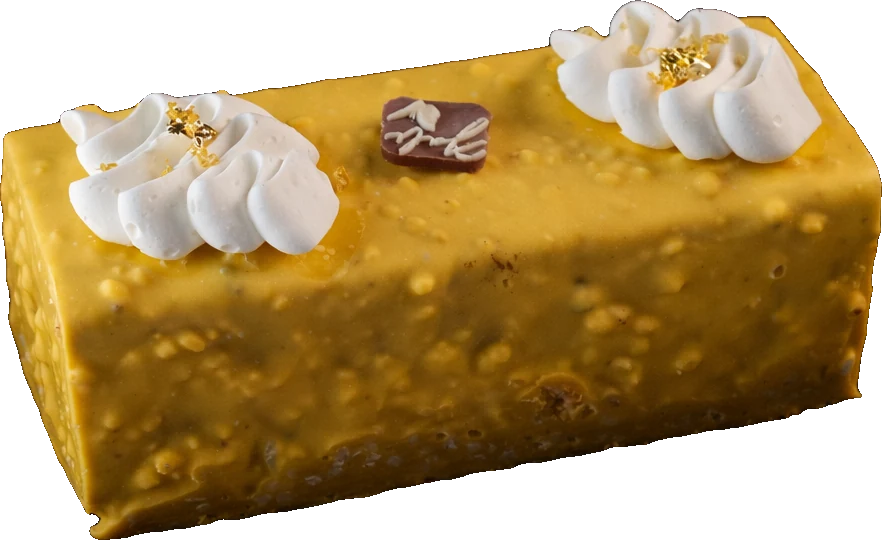
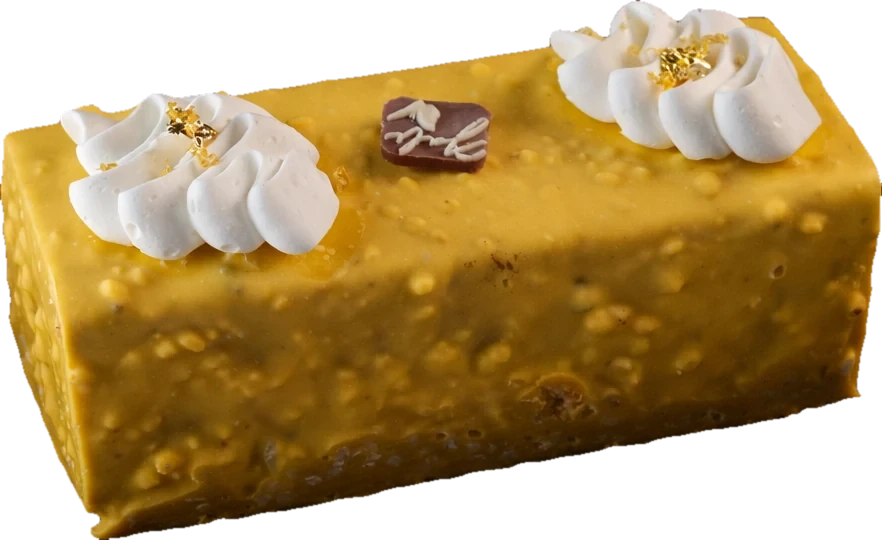
Replace low-res cake cutouts with owner's studio photos, clean cutout edges
Claude-Session: https://claude.ai/code/session_01XXde4XwDAUACeGNtHvghGj

diff --git a/maisons/patisserie.html b/maisons/patisserie.html
@@ -9,8 +9,8 @@
 <main><section class="hero-p"><div class="wrap grid"><div class="reveal"><div class="label">La Pâtisserie · Hay Riad, Rabat</div>
 <h1>La vitrine, <em>façonnée à la main.</em></h1><p class="lead">Entremets, tartes, viennoiseries et pâtisserie marocaine. À l’unité, en plateau ou en coffret, pour vous ou pour offrir.</p>
 <div class="btns"><a class="btn" href="https://wa.me/212661392231?text=Bonjour%20Gaston%20Gali%2C%20je%20souhaite%20commander%20des%20p%C3%A2tisseries." target="_blank" rel="noopener">Commander sur WhatsApp</a><a class="btn ghost" href="#collection">La collection</a></div></div>
-<div class="pstage" id="pstage" data-imgs="pistache,chocolat,velvet,croissant-pistache,vanille" aria-hidden="true"><div class="fl"></div></div></div></section>
-<section class="coll dark" id="collection"><div class="wrap"><div class="label on-dark">La collection</div><h2 class="h2 ond">Chaque création a son <em>instant.</em></h2><p class="lead">Une sélection de la vitrine. Commandez à l’unité, en plateau ou pour votre réception.</p><div class="gridc"><article class="cw reveal"><div class="tile"><span class="k">Pâtisserie fine</span><img src="../img/cut/couronne.webp" alt="Couronne caramel" loading="lazy"></div><h4>Couronne caramel</h4><div class="sub">À l’unité ou en plateau</div></article><article class="cw reveal"><div class="tile"><span class="k">Pâtisserie fine</span><img src="../img/cut/pistache.webp" alt="Entremets pistache" loading="lazy"></div><h4>Entremets pistache</h4><div class="sub">À l’unité ou en plateau</div></article><article class="cw reveal"><div class="tile"><span class="k">Pâtisserie fine</span><img src="../img/cut/chocolat.webp" alt="Barre chocolat praliné" loading="lazy"></div><h4>Barre chocolat praliné</h4><div class="sub">À l’unité ou en plateau</div></article><article class="cw reveal"><div class="tile"><span class="k">À la part</span><img src="../img/cut/velvet.webp" alt="Red velvet" loading="lazy"></div><h4>Red velvet</h4><div class="sub">À l’unité ou en plateau</div></article><article class="cw reveal"><div class="tile"><span class="k">Viennoiserie</span><img src="../img/cut/croissant-pistache.webp" alt="Croissant kunafa" loading="lazy"></div><h4>Croissant kunafa</h4><div class="sub">À l’unité ou en plateau</div></article><article class="cw reveal"><div class="tile"><span class="k">Pâtisserie fine</span><img src="../img/cut/eclair.webp" alt="Barre caramel" loading="lazy"></div><h4>Barre caramel</h4><div class="sub">À l’unité ou en plateau</div></article><article class="cw reveal"><div class="tile"><span class="k">À la part</span><img src="../img/cut/tarte.webp" alt="Tarte aux fruits secs" loading="lazy"></div><h4>Tarte aux fruits secs</h4><div class="sub">À l’unité ou en plateau</div></article><article class="cw reveal"><div class="tile"><span class="k">Viennoiserie</span><img src="../img/cut/pain-raisin.webp" alt="Pain aux raisins" loading="lazy"></div><h4>Pain aux raisins</h4><div class="sub">À l’unité ou en plateau</div></article><article class="cw reveal"><div class="tile"><span class="k">À la part</span><img src="../img/cut/millecouches.webp" alt="Mille-couches" loading="lazy"></div><h4>Mille-couches</h4><div class="sub">À l’unité ou en plateau</div></article><article class="cw reveal"><div class="tile"><span class="k">Viennoiserie</span><img src="../img/cut/choco-shell.webp" alt="Viennoiserie chocolat" loading="lazy"></div><h4>Viennoiserie chocolat</h4><div class="sub">À l’unité ou en plateau</div></article><article class="cw reveal"><div class="tile"><span class="k">Pâtisserie fine</span><img src="../img/cut/vanille.webp" alt="Entremets vanille" loading="lazy"></div><h4>Entremets vanille</h4><div class="sub">À l’unité ou en plateau</div></article><article class="cw reveal"><div class="tile"><span class="k">Pâtisserie fine</span><img src="../img/cut/coco.webp" alt="Création coco" loading="lazy"></div><h4>Création coco</h4><div class="sub">À l’unité ou en plateau</div></article></div></div></section>
+<div class="pstage" id="pstage" data-imgs="pro-dome-mangue,pro-buche-pistache,croissant-pistache,pro-tarte-framboise,pro-choco-mousse" aria-hidden="true"><div class="fl"></div></div></div></section>
+<section class="coll dark" id="collection"><div class="wrap"><div class="label on-dark">La collection</div><h2 class="h2 ond">Chaque création a son <em>instant.</em></h2><p class="lead">Une sélection de la vitrine. Commandez à l’unité, en plateau ou pour votre réception.</p><div class="gridc"><article class="cw reveal"><div class="tile"><span class="k">Pâtisserie fine</span><img src="../img/cut/pro-fondant.webp" alt="Gâteau moelleux" loading="lazy"></div><h4>Gâteau moelleux</h4><div class="sub">À l’unité ou en plateau</div></article><article class="cw reveal"><div class="tile"><span class="k">Pâtisserie fine</span><img src="../img/cut/pro-buche-pistache.webp" alt="Bûche pistache framboise" loading="lazy"></div><h4>Bûche pistache framboise</h4><div class="sub">À l’unité ou en plateau</div></article><article class="cw reveal"><div class="tile"><span class="k">Pâtisserie fine</span><img src="../img/cut/pro-choco-mousse.webp" alt="Entremets chocolat" loading="lazy"></div><h4>Entremets chocolat</h4><div class="sub">À l’unité ou en plateau</div></article><article class="cw reveal"><div class="tile"><span class="k">À la part</span><img src="../img/cut/pro-tarte-framboise.webp" alt="Tarte framboise" loading="lazy"></div><h4>Tarte framboise</h4><div class="sub">À l’unité ou en plateau</div></article><article class="cw reveal"><div class="tile"><span class="k">Viennoiserie</span><img src="../img/cut/croissant-pistache.webp" alt="Croissant kunafa" loading="lazy"></div><h4>Croissant kunafa</h4><div class="sub">À l’unité ou en plateau</div></article><article class="cw reveal"><div class="tile"><span class="k">Pâtisserie fine</span><img src="../img/cut/pro-opera.webp" alt="Mille-feuille marbré" loading="lazy"></div><h4>Mille-feuille marbré</h4><div class="sub">À l’unité ou en plateau</div></article><article class="cw reveal"><div class="tile"><span class="k">À la part</span><img src="../img/cut/pro-tartelette-citron.webp" alt="Tartelette citron" loading="lazy"></div><h4>Tartelette citron</h4><div class="sub">À l’unité ou en plateau</div></article><article class="cw reveal"><div class="tile"><span class="k">Viennoiserie</span><img src="../img/cut/pain-raisin.webp" alt="Pain aux raisins" loading="lazy"></div><h4>Pain aux raisins</h4><div class="sub">À l’unité ou en plateau</div></article><article class="cw reveal"><div class="tile"><span class="k">À la part</span><img src="../img/cut/pro-mille-feuille.webp" alt="Millefeuille praliné" loading="lazy"></div><h4>Millefeuille praliné</h4><div class="sub">À l’unité ou en plateau</div></article><article class="cw reveal"><div class="tile"><span class="k">Viennoiserie</span><img src="../img/cut/choco-shell.webp" alt="Viennoiserie chocolat" loading="lazy"></div><h4>Viennoiserie chocolat</h4><div class="sub">À l’unité ou en plateau</div></article><article class="cw reveal"><div class="tile"><span class="k">Pâtisserie fine</span><img src="../img/cut/pro-dome-mangue.webp" alt="Dôme exotique" loading="lazy"></div><h4>Dôme exotique</h4><div class="sub">À l’unité ou en plateau</div></article><article class="cw reveal"><div class="tile"><span class="k">Pâtisserie fine</span><img src="../img/cut/pro-dome-praline.webp" alt="Dôme praliné" loading="lazy"></div><h4>Dôme praliné</h4><div class="sub">À l’unité ou en plateau</div></article></div></div></section>
 <section class="savoir"><div class="wrap grid"><div class="duo reveal"><div class="a"><img src="../img/photo/coffret.webp" alt="Coffret de pâtisseries marocaines" loading="lazy"></div><div class="b"><img src="../img/photo/coffret2.webp" alt="Assortiment de pâtisseries marocaines" loading="lazy"></div></div>
 <div class="reveal"><div class="label">Le savoir-faire</div><h2 class="h2">L’héritage, <em>en coffret.</em></h2><p class="lead">Les classiques de la pâtisserie marocaine, façonnés à la main et présentés en coffrets prêts à offrir. Pour l’Aïd, les fiançailles, ou simplement pour dire merci.</p>
 <ul class="list"><li>Coffrets signature <span>À offrir</span></li><li>Plateaux de réception <span>Sur commande</span></li><li>Douceurs au miel &amp; amandes <span>En boutique</span></li></ul>

diff --git a/patisserie.html b/patisserie.html
@@ -9,8 +9,8 @@
 <main><section class="hero-p"><div class="wrap grid"><div class="reveal"><div class="label">La Pâtisserie · Hay Riad, Rabat</div>
 <h1>La vitrine, <em>façonnée à la main.</em></h1><p class="lead">Entremets, tartes, viennoiseries et pâtisserie marocaine. À l’unité, en plateau ou en coffret, pour vous ou pour offrir.</p>
 <div class="btns"><a class="btn" href="https://wa.me/212661392231?text=Bonjour%20Gaston%20Gali%2C%20je%20souhaite%20commander%20des%20p%C3%A2tisseries." target="_blank" rel="noopener">Commander sur WhatsApp</a><a class="btn ghost" href="#collection">La collection</a></div></div>
-<div class="pstage" id="pstage" data-imgs="pistache,chocolat,velvet,croissant-pistache,vanille" aria-hidden="true"><div class="fl"></div></div></div></section>
-<section class="coll dark" id="collection"><div class="wrap"><div class="label on-dark">La collection</div><h2 class="h2 ond">Chaque création a son <em>instant.</em></h2><p class="lead">Une sélection de la vitrine. Commandez à l’unité, en plateau ou pour votre réception.</p><div class="gridc"><article class="cw reveal"><div class="tile"><span class="k">Pâtisserie fine</span><img src="../img/cut/couronne.webp" alt="Couronne caramel" loading="lazy"></div><h4>Couronne caramel</h4><div class="sub">À l’unité ou en plateau</div></article><article class="cw reveal"><div class="tile"><span class="k">Pâtisserie fine</span><img src="../img/cut/pistache.webp" alt="Entremets pistache" loading="lazy"></div><h4>Entremets pistache</h4><div class="sub">À l’unité ou en plateau</div></article><article class="cw reveal"><div class="tile"><span class="k">Pâtisserie fine</span><img src="../img/cut/chocolat.webp" alt="Barre chocolat praliné" loading="lazy"></div><h4>Barre chocolat praliné</h4><div class="sub">À l’unité ou en plateau</div></article><article class="cw reveal"><div class="tile"><span class="k">À la part</span><img src="../img/cut/velvet.webp" alt="Red velvet" loading="lazy"></div><h4>Red velvet</h4><div class="sub">À l’unité ou en plateau</div></article><article class="cw reveal"><div class="tile"><span class="k">Viennoiserie</span><img src="../img/cut/croissant-pistache.webp" alt="Croissant kunafa" loading="lazy"></div><h4>Croissant kunafa</h4><div class="sub">À l’unité ou en plateau</div></article><article class="cw reveal"><div class="tile"><span class="k">Pâtisserie fine</span><img src="../img/cut/eclair.webp" alt="Barre caramel" loading="lazy"></div><h4>Barre caramel</h4><div class="sub">À l’unité ou en plateau</div></article><article class="cw reveal"><div class="tile"><span class="k">À la part</span><img src="../img/cut/tarte.webp" alt="Tarte aux fruits secs" loading="lazy"></div><h4>Tarte aux fruits secs</h4><div class="sub">À l’unité ou en plateau</div></article><article class="cw reveal"><div class="tile"><span class="k">Viennoiserie</span><img src="../img/cut/pain-raisin.webp" alt="Pain aux raisins" loading="lazy"></div><h4>Pain aux raisins</h4><div class="sub">À l’unité ou en plateau</div></article><article class="cw reveal"><div class="tile"><span class="k">À la part</span><img src="../img/cut/millecouches.webp" alt="Mille-couches" loading="lazy"></div><h4>Mille-couches</h4><div class="sub">À l’unité ou en plateau</div></article><article class="cw reveal"><div class="tile"><span class="k">Viennoiserie</span><img src="../img/cut/choco-shell.webp" alt="Viennoiserie chocolat" loading="lazy"></div><h4>Viennoiserie chocolat</h4><div class="sub">À l’unité ou en plateau</div></article><article class="cw reveal"><div class="tile"><span class="k">Pâtisserie fine</span><img src="../img/cut/vanille.webp" alt="Entremets vanille" loading="lazy"></div><h4>Entremets vanille</h4><div class="sub">À l’unité ou en plateau</div></article><article class="cw reveal"><div class="tile"><span class="k">Pâtisserie fine</span><img src="../img/cut/coco.webp" alt="Création coco" loading="lazy"></div><h4>Création coco</h4><div class="sub">À l’unité ou en plateau</div></article></div></div></section>
+<div class="pstage" id="pstage" data-imgs="pro-dome-mangue,pro-buche-pistache,croissant-pistache,pro-tarte-framboise,pro-choco-mousse" aria-hidden="true"><div class="fl"></div></div></div></section>
+<section class="coll dark" id="collection"><div class="wrap"><div class="label on-dark">La collection</div><h2 class="h2 ond">Chaque création a son <em>instant.</em></h2><p class="lead">Une sélection de la vitrine. Commandez à l’unité, en plateau ou pour votre réception.</p><div class="gridc"><article class="cw reveal"><div class="tile"><span class="k">Pâtisserie fine</span><img src="../img/cut/pro-fondant.webp" alt="Gâteau moelleux" loading="lazy"></div><h4>Gâteau moelleux</h4><div class="sub">À l’unité ou en plateau</div></article><article class="cw reveal"><div class="tile"><span class="k">Pâtisserie fine</span><img src="../img/cut/pro-buche-pistache.webp" alt="Bûche pistache framboise" loading="lazy"></div><h4>Bûche pistache framboise</h4><div class="sub">À l’unité ou en plateau</div></article><article class="cw reveal"><div class="tile"><span class="k">Pâtisserie fine</span><img src="../img/cut/pro-choco-mousse.webp" alt="Entremets chocolat" loading="lazy"></div><h4>Entremets chocolat</h4><div class="sub">À l’unité ou en plateau</div></article><article class="cw reveal"><div class="tile"><span class="k">À la part</span><img src="../img/cut/pro-tarte-framboise.webp" alt="Tarte framboise" loading="lazy"></div><h4>Tarte framboise</h4><div class="sub">À l’unité ou en plateau</div></article><article class="cw reveal"><div class="tile"><span class="k">Viennoiserie</span><img src="../img/cut/croissant-pistache.webp" alt="Croissant kunafa" loading="lazy"></div><h4>Croissant kunafa</h4><div class="sub">À l’unité ou en plateau</div></article><article class="cw reveal"><div class="tile"><span class="k">Pâtisserie fine</span><img src="../img/cut/pro-opera.webp" alt="Mille-feuille marbré" loading="lazy"></div><h4>Mille-feuille marbré</h4><div class="sub">À l’unité ou en plateau</div></article><article class="cw reveal"><div class="tile"><span class="k">À la part</span><img src="../img/cut/pro-tartelette-citron.webp" alt="Tartelette citron" loading="lazy"></div><h4>Tartelette citron</h4><div class="sub">À l’unité ou en plateau</div></article><article class="cw reveal"><div class="tile"><span class="k">Viennoiserie</span><img src="../img/cut/pain-raisin.webp" alt="Pain aux raisins" loading="lazy"></div><h4>Pain aux raisins</h4><div class="sub">À l’unité ou en plateau</div></article><article class="cw reveal"><div class="tile"><span class="k">À la part</span><img src="../img/cut/pro-mille-feuille.webp" alt="Millefeuille praliné" loading="lazy"></div><h4>Millefeuille praliné</h4><div class="sub">À l’unité ou en plateau</div></article><article class="cw reveal"><div class="tile"><span class="k">Viennoiserie</span><img src="../img/cut/choco-shell.webp" alt="Viennoiserie chocolat" loading="lazy"></div><h4>Viennoiserie chocolat</h4><div class="sub">À l’unité ou en plateau</div></article><article class="cw reveal"><div class="tile"><span class="k">Pâtisserie fine</span><img src="../img/cut/pro-dome-mangue.webp" alt="Dôme exotique" loading="lazy"></div><h4>Dôme exotique</h4><div class="sub">À l’unité ou en plateau</div></article><article class="cw reveal"><div class="tile"><span class="k">Pâtisserie fine</span><img src="../img/cut/pro-dome-praline.webp" alt="Dôme praliné" loading="lazy"></div><h4>Dôme praliné</h4><div class="sub">À l’unité ou en plateau</div></article></div></div></section>
 <section class="savoir"><div class="wrap grid"><div class="duo reveal"><div class="a"><img src="../img/photo/coffret.webp" alt="Coffret de pâtisseries marocaines" loading="lazy"></div><div class="b"><img src="../img/photo/coffret2.webp" alt="Assortiment de pâtisseries marocaines" loading="lazy"></div></div>
 <div class="reveal"><div class="label">Le savoir-faire</div><h2 class="h2">L’héritage, <em>en coffret.</em></h2><p class="lead">Les classiques de la pâtisserie marocaine, façonnés à la main et présentés en coffrets prêts à offrir. Pour l’Aïd, les fiançailles, ou simplement pour dire merci.</p>
 <ul class="list"><li>Coffrets signature <span>À offrir</span></li><li>Plateaux de réception <span>Sur commande</span></li><li>Douceurs au miel &amp; amandes <span>En boutique</span></li></ul>

diff --git a/luxe (1).html b/luxe (1).html
@@ -8,7 +8,7 @@
 <meta name="robots" content="noindex">
 <link rel="preconnect" href="https://fonts.googleapis.com">
 <link rel="preconnect" href="https://fonts.gstatic.com" crossorigin>
-<link rel="preload" as="image" href="img/cut/pistache.webp">
+<link rel="preload" as="image" href="img/cut/pro-buche-pistache.webp">
 <link href="https://fonts.googleapis.com/css2?family=Cormorant+Garamond:ital,wght@0,400;0,500;0,600;1,400;1,500&family=Montserrat:wght@400;500;600&display=swap" rel="stylesheet">
 <style>
 :root{
@@ -454,11 +454,11 @@ const $=id=>document.getElementById(id);
 
 /* hero */
 const P=[
-  ['Entremets pistache','pistache.webp','70%'],
-  ['Barre chocolat praliné','chocolat.webp','92%'],
-  ['Red velvet','velvet.webp','72%'],
+  ['Bûche pistache framboise','pro-buche-pistache.webp','70%'],
+  ['Entremets chocolat','pro-choco-mousse.webp','92%'],
+  ['Tarte framboise','pro-tarte-framboise.webp','72%'],
   ['Croissant kunafa pistache','croissant-pistache.webp','76%'],
-  ['Entremets vanille','vanille.webp','74%'],
+  ['Dôme exotique','pro-dome-mangue.webp','74%'],
 ];
 const stage=$('stage'),dock=$('dock'),cap=$('cap'),hero=document.querySelector('.hero');
 let cur=-1,timer,paused=false;
@@ -509,17 +509,17 @@ menu.querySelectorAll('a').forEach(a=>a.onclick=()=>{menu.classList.remove('open
 
 /* collection */
 const C=[
-  ['couronne.webp','Couronne caramel','Pâtisserie fine'],
-  ['pistache.webp','Entremets pistache','Pâtisserie fine'],
-  ['chocolat.webp','Barre chocolat praliné','Pâtisserie fine'],
-  ['velvet.webp','Red velvet','À la part'],
+  ['pro-fondant.webp','Gâteau moelleux','Pâtisserie fine'],
+  ['pro-buche-pistache.webp','Bûche pistache framboise','Pâtisserie fine'],
+  ['pro-choco-mousse.webp','Entremets chocolat','Pâtisserie fine'],
+  ['pro-tarte-framboise.webp','Tarte framboise','À la part'],
   ['croissant-pistache.webp','Croissant kunafa','Viennoiserie'],
-  ['eclair.webp','Barre caramel','Pâtisserie fine'],
-  ['tarte.webp','Tarte aux fruits secs','À la part'],
+  ['pro-opera.webp','Mille-feuille marbré','Pâtisserie fine'],
+  ['pro-tartelette-citron.webp','Tartelette citron','À la part'],
   ['pain-raisin.webp','Pain aux raisins','Viennoiserie'],
-  ['millecouches.webp','Mille-couches','À la part'],
+  ['pro-mille-feuille.webp','Millefeuille praliné','À la part'],
   ['choco-shell.webp','Viennoiserie chocolat','Viennoiserie'],
-  ['vanille.webp','Entremets vanille','Pâtisserie fine'],
+  ['pro-dome-mangue.webp','Dôme exotique','Pâtisserie fine'],
 ];
 const rail=$('rail');
 rail.innerHTML=C.map(([img,n,k],i)=>`<article class="cw"><div class="tile"><span class="k">${k}</span><img src="${IMG+img}" alt="${n}" loading="lazy"><span class="d">Découvrir</span></div><h4>${n}</h4><div class="sub">À l’unité ou en plateau</div></article>`).join('')+

diff --git a/luxe.html b/luxe.html
@@ -8,7 +8,7 @@
 <meta name="robots" content="noindex">
 <link rel="preconnect" href="https://fonts.googleapis.com">
 <link rel="preconnect" href="https://fonts.gstatic.com" crossorigin>
-<link rel="preload" as="image" href="img/cut/pistache.webp">
+<link rel="preload" as="image" href="img/cut/pro-buche-pistache.webp">
 <link href="https://fonts.googleapis.com/css2?family=Cormorant+Garamond:ital,wght@0,400;0,500;0,600;1,400;1,500&family=Montserrat:wght@400;500;600&display=swap" rel="stylesheet">
 <style>
 :root{
@@ -455,11 +455,11 @@ const $=id=>document.getElementById(id);
 
 /* hero */
 const P=[
-  ['Entremets pistache','pistache.webp','70%'],
-  ['Barre chocolat praliné','chocolat.webp','92%'],
-  ['Red velvet','velvet.webp','72%'],
+  ['Bûche pistache framboise','pro-buche-pistache.webp','70%'],
+  ['Entremets chocolat','pro-choco-mousse.webp','92%'],
+  ['Tarte framboise','pro-tarte-framboise.webp','72%'],
   ['Croissant kunafa pistache','croissant-pistache.webp','76%'],
-  ['Entremets vanille','vanille.webp','74%'],
+  ['Dôme exotique','pro-dome-mangue.webp','74%'],
 ];
 const stage=$('stage'),dock=$('dock'),cap=$('cap'),hero=document.querySelector('.hero');
 let cur=-1,timer,paused=false;
@@ -511,17 +511,17 @@ menu.querySelectorAll('a').forEach(a=>a.onclick=()=>{menu.classList.remove('open
 
 /* collection */
 const C=[
-  ['couronne.webp','Couronne caramel','Pâtisserie fine'],
-  ['pistache.webp','Entremets pistache','Pâtisserie fine'],
-  ['chocolat.webp','Barre chocolat praliné','Pâtisserie fine'],
-  ['velvet.webp','Red velvet','À la part'],
+  ['pro-fondant.webp','Gâteau moelleux','Pâtisserie fine'],
+  ['pro-buche-pistache.webp','Bûche pistache framboise','Pâtisserie fine'],
+  ['pro-choco-mousse.webp','Entremets chocolat','Pâtisserie fine'],
+  ['pro-tarte-framboise.webp','Tarte framboise','À la part'],
   ['croissant-pistache.webp','Croissant kunafa','Viennoiserie'],
-  ['eclair.webp','Barre caramel','Pâtisserie fine'],
-  ['tarte.webp','Tarte aux fruits secs','À la part'],
+  ['pro-opera.webp','Mille-feuille marbré','Pâtisserie fine'],
+  ['pro-tartelette-citron.webp','Tartelette citron','À la part'],
   ['pain-raisin.webp','Pain aux raisins','Viennoiserie'],
-  ['millecouches.webp','Mille-couches','À la part'],
+  ['pro-mille-feuille.webp','Millefeuille praliné','À la part'],
   ['choco-shell.webp','Viennoiserie chocolat','Viennoiserie'],
-  ['vanille.webp','Entremets vanille','Pâtisserie fine'],
+  ['pro-dome-mangue.webp','Dôme exotique','Pâtisserie fine'],
 ];
 const rail=$('rail');
 rail.innerHTML=C.map(([img,n,k],i)=>`<article class="cw"><div class="tile"><span class="k">${k}</span><img src="${IMG+img}" alt="${n}" loading="lazy"><span class="d">Découvrir</span></div><h4>${n}</h4><div class="sub">À l’unité ou en plateau</div></article>`).join('')+
